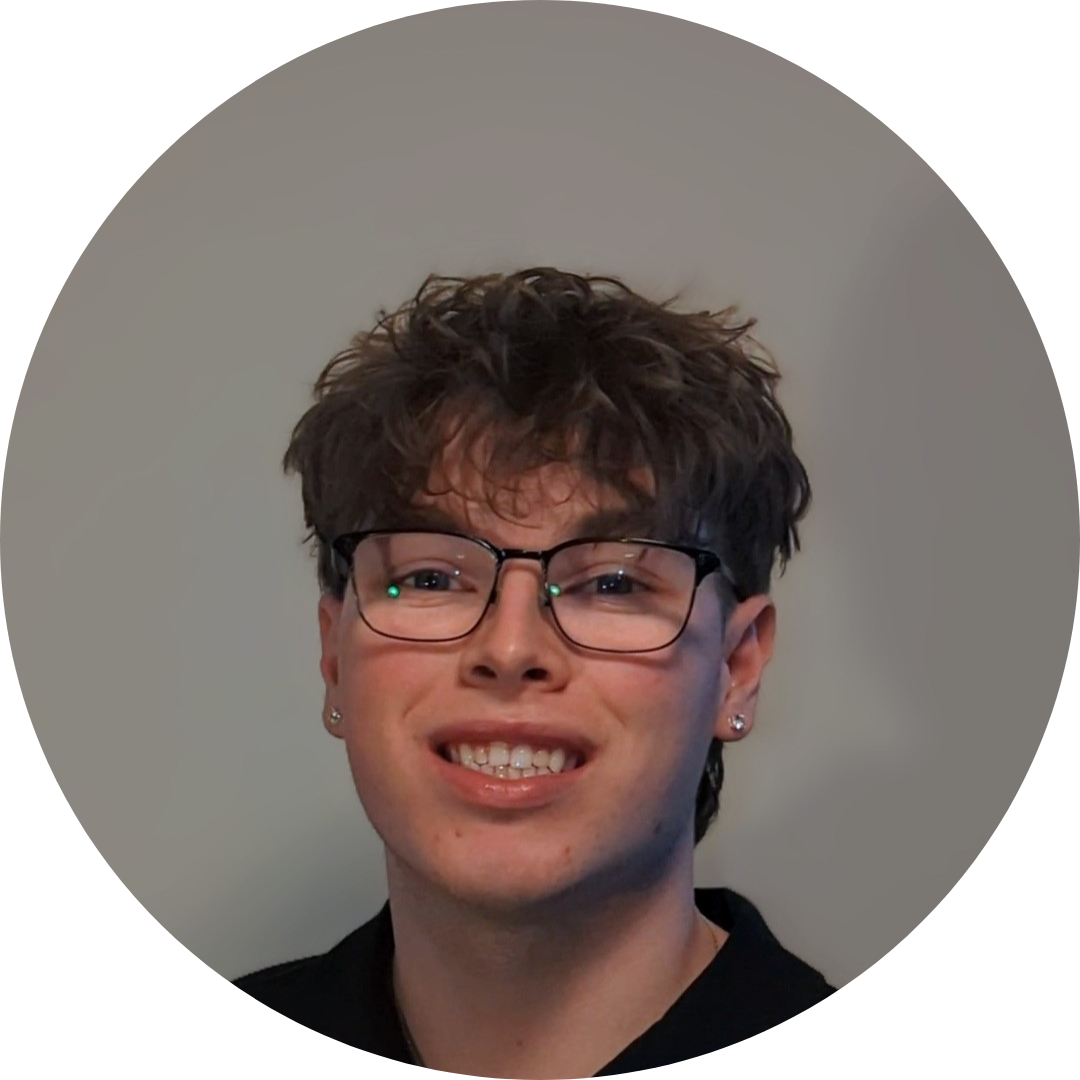
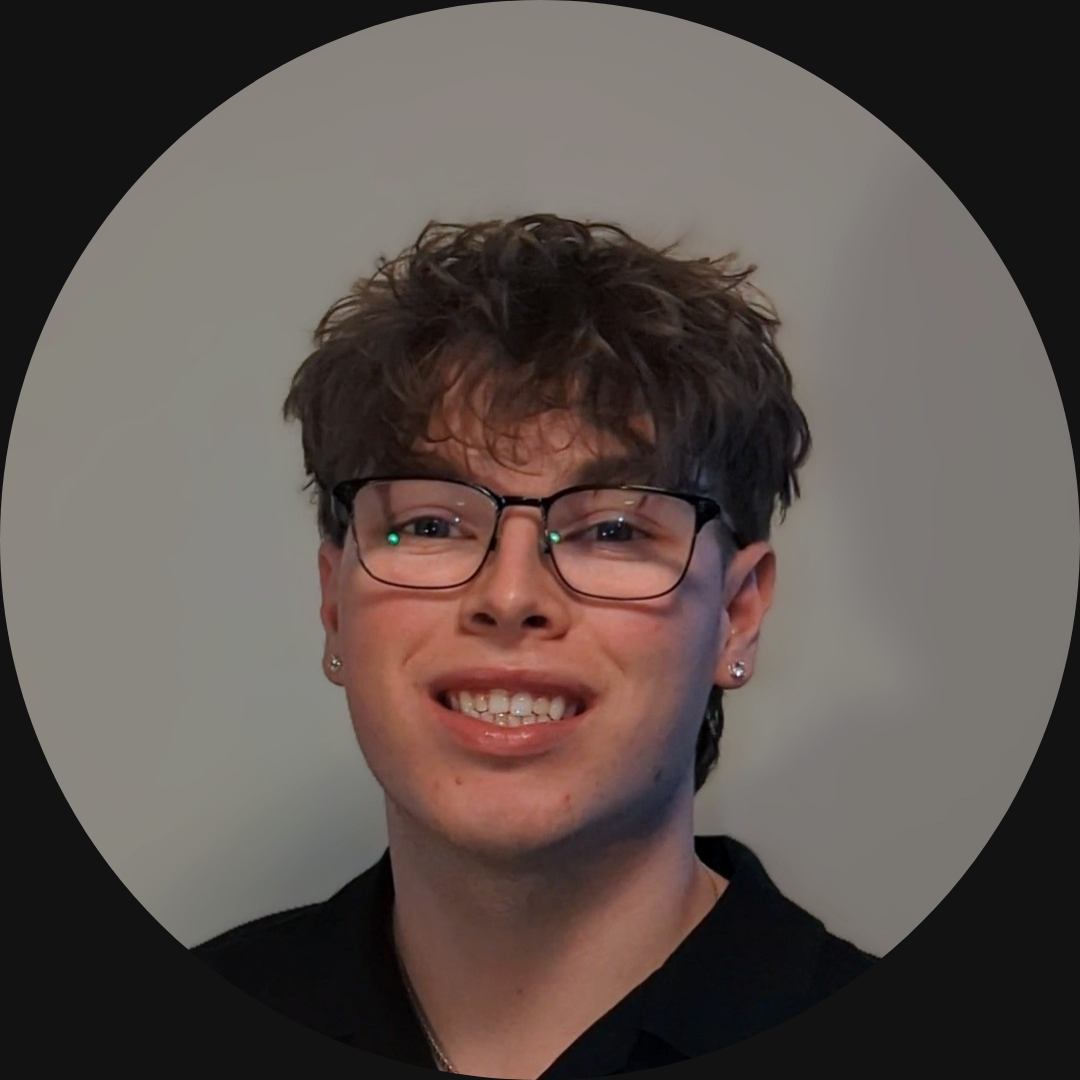
final edits

diff --git a/style.css b/style.css
@@ -5,10 +5,13 @@
 * {
   margin: 0;
   padding: 0;
+  box-sizing: border-box;
 }
 
 body {
   font-family: "Poppins", sans-serif;
+  background-color: #121212;
+  color: #e0e0e0;
 }
 
 html {
@@ -16,7 +19,7 @@ html {
 }
 
 p {
-  color: rgb(85, 85, 85);
+  color: #cccccc;
 }
 
 /* TRANSITION */
@@ -37,6 +40,7 @@ nav {
   justify-content: space-around;
   align-items: center;
   height: 17vh;
+  background-color: #1e1e1e;
 }
 
 .nav-links {
@@ -46,20 +50,21 @@ nav {
 }
 
 a {
-  color: black;
+  color: #ffffff;
   text-decoration: none;
-  text-decoration-color: white;
+  text-decoration-color: #ffffff;
 }
 
 a:hover {
-  color: grey;
+  color: #999999;
   text-decoration: underline;
   text-underline-offset: 1rem;
-  text-decoration-color: rgb(181, 181, 181);
+  text-decoration-color: #b5b5b5;
 }
 
 .logo {
   font-size: 2rem;
+  color: #ffffff;
 }
 
 .logo:hover {
@@ -89,19 +94,19 @@ a:hover {
 .hamburger-icon span {
   width: 100%;
   height: 2px;
-  background-color: black;
-  transition: all 0.3 ease-in-out;
+  background-color: #ffffff;
+  transition: all 0.3s ease-in-out;
 }
 
 .menu-links {
   position: absolute;
   top: 100%;
   right: 0;
-  background-color: white;
+  background-color: #1e1e1e;
   width: fit-content;
   max-height: 0;
   overflow: hidden;
-  transition: all 0.3 ease-in-out;
+  transition: all 0.3s ease-in-out;
 }
 
 .menu-links a {
@@ -109,9 +114,9 @@ a:hover {
   padding: 10px;
   text-align: center;
   font-size: 1.5rem;
-  color: black;
+  color: #ffffff;
   text-decoration: none;
-  transition: all 0.3 ease-in-out;
+  transition: all 0.3s ease-in-out;
 }
 
 .menu-links li {
@@ -134,25 +139,12 @@ a:hover {
   transform: rotate(-45deg) translate(10px, -5px);
 }
 
-.hamburger-icon span:first-child {
-  transform: none;
-}
-
-.hamburger-icon span:first-child {
-  opacity: 1;
-}
-
-.hamburger-icon span:first-child {
-  transform: none;
-}
-
 /* SECTIONS */
 
 section {
   padding-top: 4vh;
   height: 96vh;
   margin: 0 10rem;
-  box-sizing: border-box;
   min-height: fit-content;
 }
 
@@ -170,7 +162,6 @@ section {
 }
 
 .section__pic-container {
-  display: flex;
   height: 400px;
   width: 400px;
   margin: auto 0;
@@ -197,6 +188,7 @@ section {
 .title {
   font-size: 3rem;
   text-align: center;
+  color: #ffffff;
 }
 
 #socials-container {
@@ -211,6 +203,7 @@ section {
 .icon {
   cursor: pointer;
   height: 2rem;
+  filter: invert(1);
 }
 
 /* BUTTONS */
@@ -223,42 +216,17 @@ section {
 
 .btn {
   font-weight: 600;
-  transition: all 300ms ease;
   padding: 1rem;
   width: 8rem;
   border-radius: 2rem;
+  background-color: #1e1e1e;
+  color: #e0e0e0;
+  border: #333 1px solid;
 }
 
-.btn-color-1,
-.btn-color-2 {
-  border: rgb(53, 53, 53) 0.1rem solid;
-}
-
-.btn-color-1:hover,
-.btn-color-2:hover {
-  cursor: pointer;
-}
-
-.btn-color-1,
-.btn-color-2:hover {
-  background: rgb(53, 53, 53);
-  color: white;
-}
-
-.btn-color-1:hover {
-  background: rgb(0, 0, 0);
-}
-
-.btn-color-2 {
-  background: none;
-}
-
-.btn-color-2:hover {
-  border: rgb(255, 255, 255) 0.1rem solid;
-}
-
-.btn-container {
-  gap: 1rem;
+.btn:hover {
+  background-color: #333;
+  color: #ffffff;
 }
 
 /* ABOUT SECTION */
@@ -269,8 +237,7 @@ section {
 
 .about-containers {
   gap: 2rem;
-  margin-bottom: 2rem;
-  margin-top: 2rem;
+  margin: 2rem 0;
 }
 
 .about-details-container {
@@ -291,27 +258,17 @@ section {
   position: absolute;
   right: -5rem;
   bottom: 2.5rem;
+  filter: invert(1);
 }
 
 .details-container {
   padding: 1.5rem;
   flex: 1;
-  background: white;
+  background: #1e1e1e;
   border-radius: 2rem;
-  border: rgb(53, 53, 53) 0.1rem solid;
-  border-color: rgb(163, 163, 163);
+  border: #444 1px solid;
   text-align: center;
-}
-
-.section-container {
-  gap: 4rem;
-  height: 80%;
-}
-
-.section__pic-container {
-  height: 400px;
-  width: 400px;
-  margin: auto 0;
+  color: #e0e0e0;
 }
 
 /* EXPERIENCE SECTION */
@@ -321,7 +278,7 @@ section {
 }
 
 .experience-sub-title {
-  color: rgb(85, 85, 85);
+  color: #cccccc;
   font-weight: 600;
   font-size: 1.75rem;
   margin-bottom: 2rem;
@@ -347,10 +304,7 @@ article {
   width: 10rem;
   justify-content: space-around;
   gap: 0.5rem;
-}
-
-article .icon {
-  cursor: default;
+  color: #ffffff;
 }
 
 /* PROJECTS SECTION */
@@ -360,8 +314,8 @@ article .icon {
 }
 
 .color-container {
-  border-color: rgb(163, 163, 163);
-  background: rgb(250, 250, 250);
+  background: #1e1e1e;
+  border: #444 solid 1px;
 }
 
 .project-img {
@@ -372,15 +326,20 @@ article .icon {
 
 .project-title {
   margin: 1rem;
-  color: black;
+  color: #ffffff;
 }
 
 .project-btn {
-  color: black;
-  border-color: rgb(163, 163, 163);
+  color: #e0e0e0;
+  border: #444 solid 1px;
+  background-color: #1e1e1e;
 }
 
-/* CONTACT */
+.project-btn:hover {
+  background-color: #333;
+}
+
+/* CONTACT SECTION */
 
 #contact {
   display: flex;
@@ -393,9 +352,8 @@ article .icon {
   display: flex;
   justify-content: center;
   border-radius: 2rem;
-  border: rgb(53, 53, 53) 0.1rem solid;
-  border-color: rgb(163, 163, 163);
-  background: (250, 250, 250);
+  border: #444 1px solid;
+  background: #1e1e1e;
   margin: 2rem auto;
   padding: 0.5rem;
 }
@@ -406,6 +364,7 @@ article .icon {
   justify-content: center;
   gap: 0.5rem;
   margin: 1rem;
+  color: #e0e0e0;
 }
 
 .contact-info-container p {
@@ -414,13 +373,14 @@ article .icon {
 
 .contact-icon {
   cursor: default;
+  filter: invert(1);
 }
 
 .email-icon {
   height: 2.5rem;
 }
 
-/* FOOTER SECTION */
+/* FOOTER */
 
 footer {
   height: 26vh;
@@ -429,4 +389,14 @@ footer {
 
 footer p {
   text-align: center;
+  color: #999999;
+}
+/* IMAGE SIZING FIX */
+.about-pic,
+.section__pic-container img {
+  width: 100%;
+  height: auto;
+  max-width: 300px;
+  border-radius: 2rem;
+  object-fit: cover;
 }
